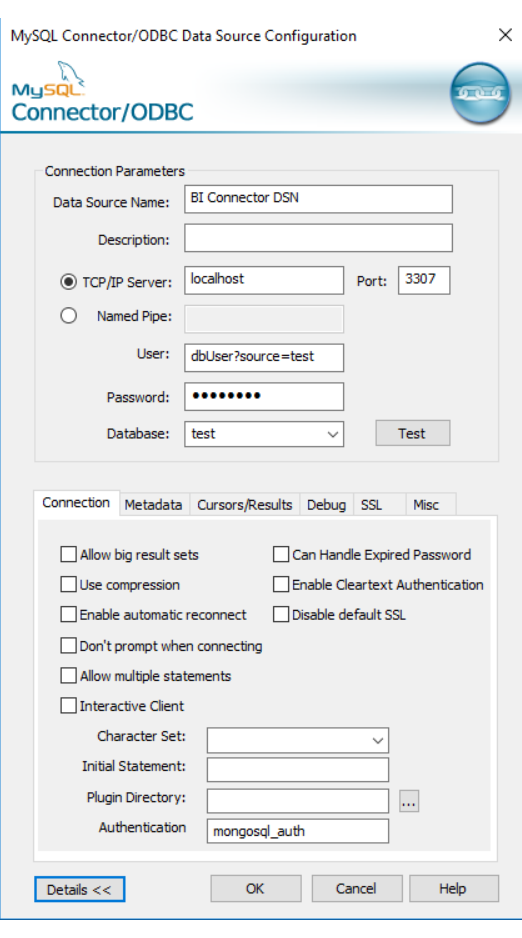
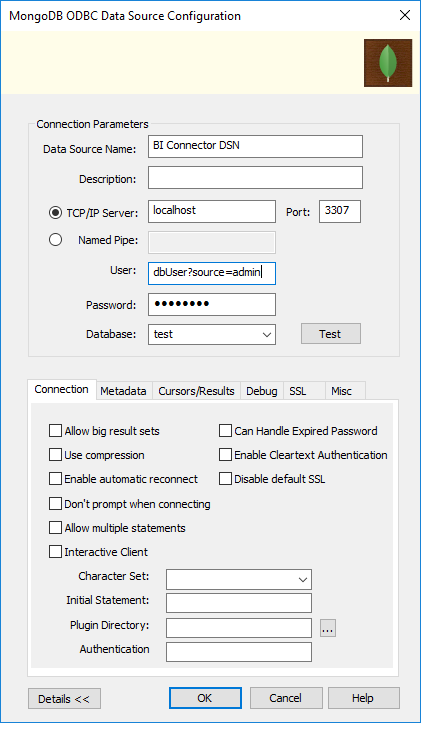
DOCSP-2143: mongodb ODBC driver placeholders

Changed region(s): [[0.0, 0.0, 1.0, 1.0], [0.7102, 0.4276, 0.8646, 0.4887]]

diff --git a/conf.py b/conf.py
@@ -58,6 +58,7 @@ rst_epilog = '\n'.join([
     '.. |hardlink| replace:: https://docs.mongodb.com/bi-connector/',
     '.. |bi| replace:: MongoDB Connector for BI',
     '.. |bi-short| replace:: BI Connector',
+    '.. |odbc-driver| replace:: ``MongoDB ODBC driver``'
 ])
 
 extlinks = {

diff --git a/source/includes/auth-intro-c.rst b/source/includes/auth-intro-c.rst
@@ -1,8 +1,12 @@
-.. versionadded:: 2.2
+The MongoDB authentication plugin is embedded in the |odbc-driver|.
+If your BI tool connects using the |odbc-driver| through a
+:doc:`DSN </tutorial/create-system-dsn>` or the driver
+directly, you do not need to install the authentication plugin
+separately. Install the standalone authentication plugin if your BI
+tool does not use an ODBC driver and accepts authentication plugins,
+such the :doc:`MySQL shell </connect/mysql>`.
 
-The |bi| provides a MySQL authentication plugin which implements the
-client side of MongoDB-supported authentication mechanisms. The
-``mongosql_auth`` plugin allows a client to authenticate with a
+The ``mongosql_auth`` plugin allows a client to authenticate with a
 |bi-short| and MongoDB deployment running with authentication enabled
 using one of the following authentication mechanisms:
 

diff --git a/source/includes/client-connection-prereqs.rst b/source/includes/client-connection-prereqs.rst
@@ -3,8 +3,3 @@ Prerequisites
 
 - Create a 64-bit :doc:`system Data Source Name (DSN)
   </tutorial/create-system-dsn>`.
-
-- If your |bi-short| and MongoDB deployment are running with
-  authentication enabled, install the MongoDB
-  :doc:`C Authentication Plugin </tutorial/install-auth-plugin-c>` for
-  your platform.
